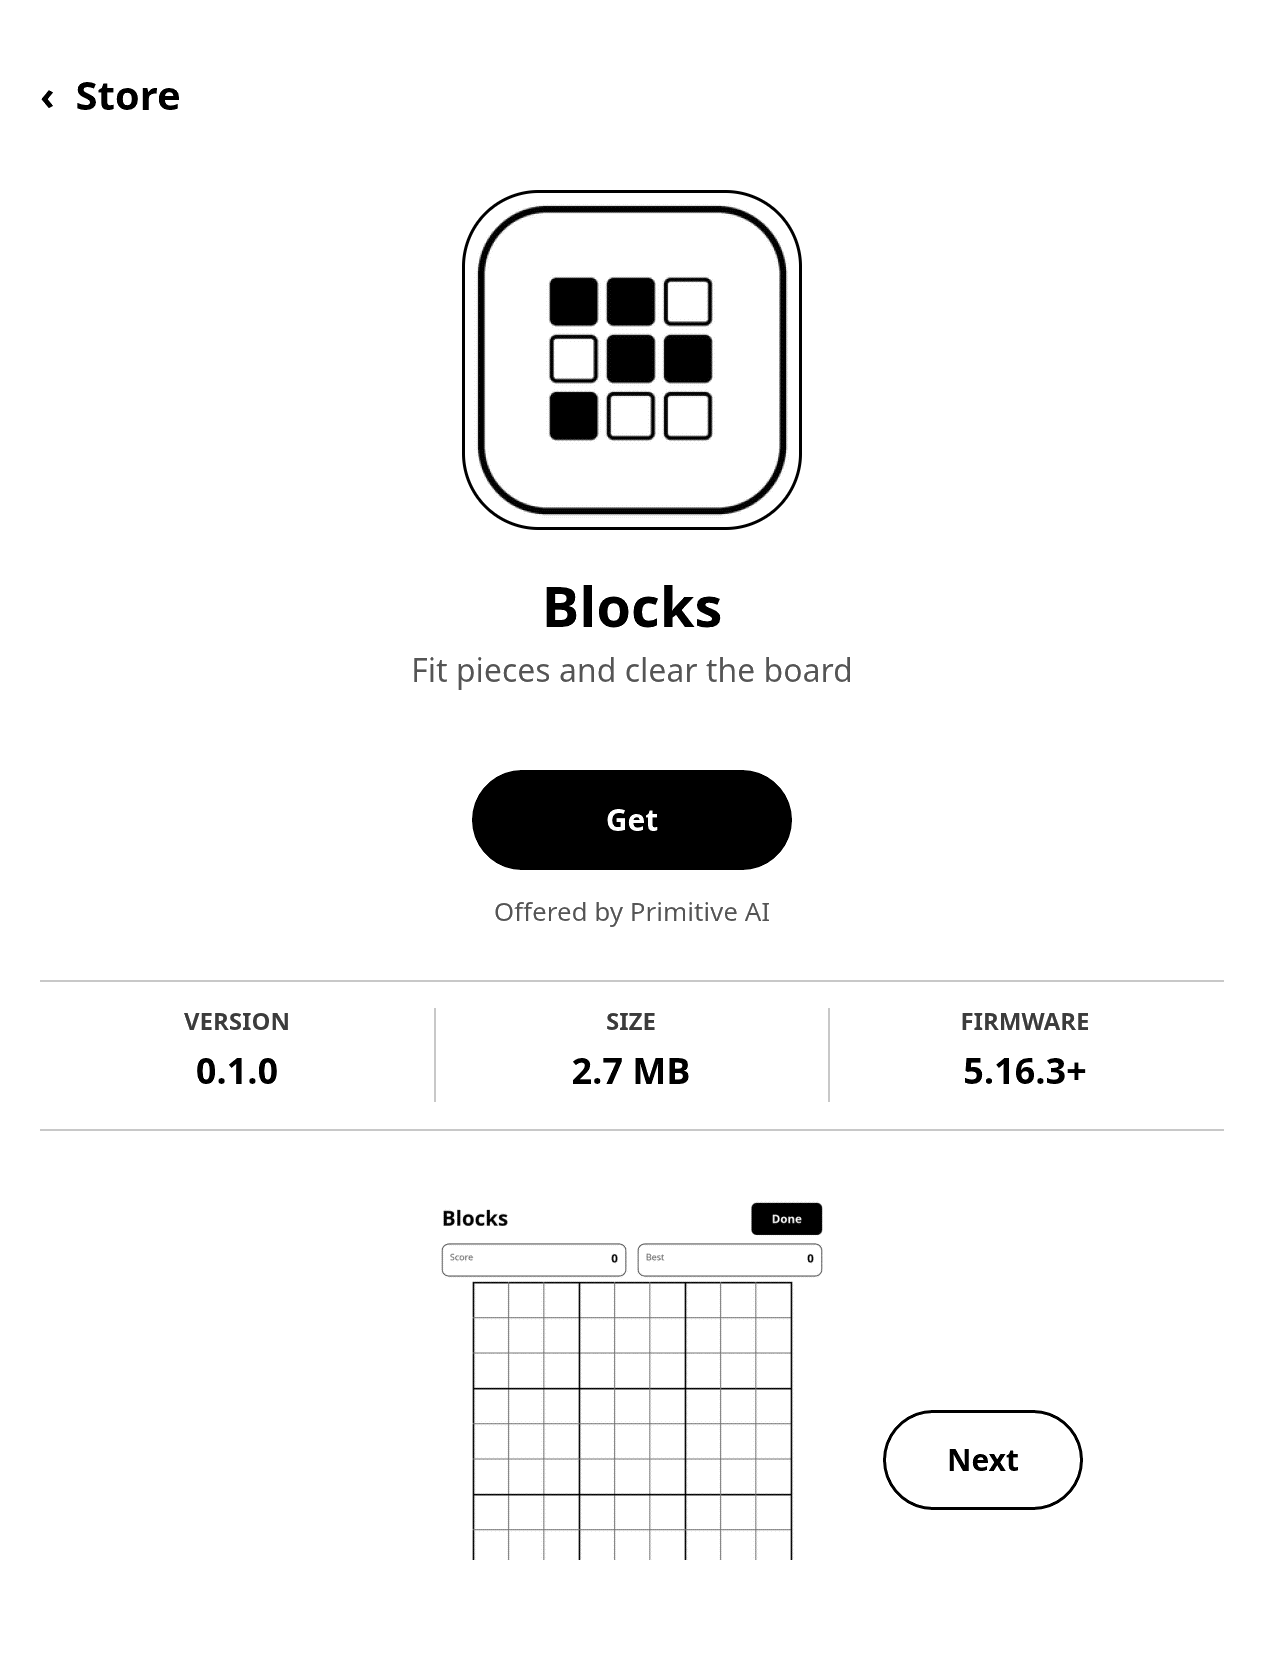
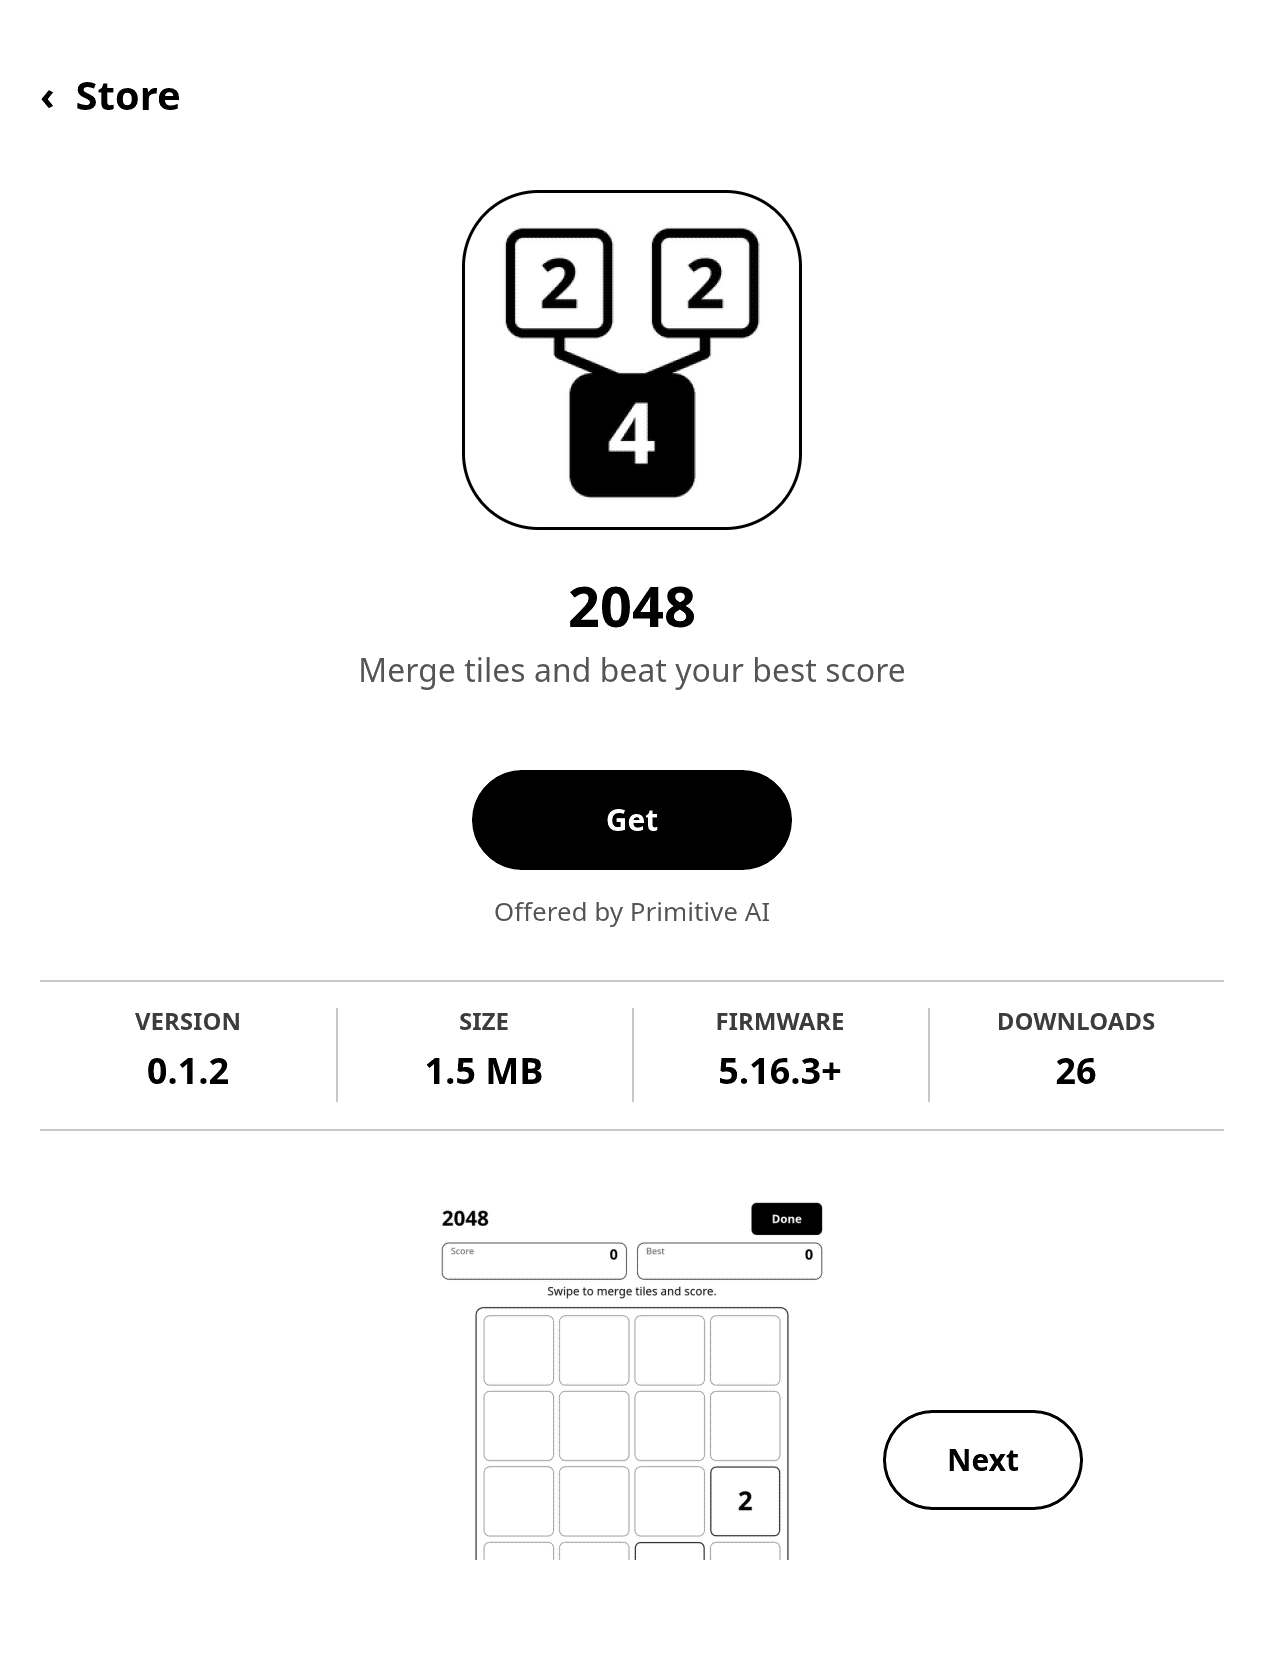
Add scrolling and per-app download totals in Store 0.1.6

diff --git a/crates/store-app/src/artwork.rs b/crates/store-app/src/artwork.rs
@@ -1,4 +1,4 @@
-//! Prepare the current page's artwork off the event loop, then warm the adjacent pages.
+//! Prepare visible artwork off the event loop, then preload icons near the viewport.
 
 use std::{
     collections::HashSet,
@@ -72,27 +72,14 @@ impl PageArtwork {
         page
     }
 
-    fn rows<'a>(ui: &'a Ui, indices: impl Iterator<Item = usize> + 'a) -> impl Iterator<Item = Asset> + 'a {
-        indices.filter_map(move |index| ui.store.get(index))
-            .map(|entry| Asset::Icon(entry.id.clone(), STORE_ROW_ICON))
-    }
-
     fn for_list(ui: &Ui) -> Self {
-        if ui.store_tab == StoreTab::Today {
-            let mut visible: Vec<_> = ui.store_featured().into_iter()
-                .map(|index| Asset::Icon(ui.store[index].id.clone(), STORE_FEATURE_ICON)).collect();
-            if ui.store_today_collection_page().is_empty() {
-                visible.extend(Self::rows(ui, ui.store_today_rows().into_iter()));
-            }
-            let nearby = Self::rows(ui, (0..ui.store.len()).take(ui.layout.store_toolbar_rows())).collect();
-            return Self { visible, nearby };
-        }
-
-        let indices = ui.store_list_indices();
-        let per_page = ui.store_rows_per_page();
-        let page = |number: usize| Self::rows(ui, indices.iter().copied().skip(number * per_page).take(per_page));
-        let visible = page(ui.store_page).collect();
-        let nearby = page(ui.store_page + 1).chain(ui.store_page.checked_sub(1).into_iter().flat_map(page)).collect();
+        let featured = if ui.store_tab == StoreTab::Today { ui.store_featured() } else { None };
+        let icon = |index: usize| {
+            let size = if Some(index) == featured { STORE_FEATURE_ICON } else { STORE_ROW_ICON };
+            Asset::Icon(ui.store[index].id.clone(), size)
+        };
+        let visible = ui.store_visible_entries().into_iter().map(|(_, index)| icon(index)).collect();
+        let nearby = ui.store_nearby_entries().into_iter().map(icon).collect();
         Self { visible, nearby }
     }
 
@@ -195,7 +182,7 @@ impl Artwork {
         }
         let next = PageArtwork::for_ui(ui);
         if self.page != next {
-            // Let the panel settle before preparing off-screen art, especially during rapid paging.
+            // Let the panel settle before preparing off-screen art, especially during rapid scrolling.
             self.preload_after = Instant::now() + Duration::from_millis(450);
             self.page = next;
         }
@@ -244,7 +231,7 @@ impl Artwork {
         }
         let mut assets: Vec<_> = self.page.visible.iter().filter(|asset| !self.attempted.contains(*asset)).cloned().collect();
         if assets.is_empty() && Instant::now() >= self.preload_after {
-            // A single speculative decode never holds up more than one tile if the user changes pages.
+            // Keep speculative work to one tile so visible icons take priority after a scroll.
             assets.extend(self.page.nearby.iter().filter(|asset| !self.attempted.contains(*asset)).take(1).cloned());
         }
         if !assets.is_empty() {
@@ -274,7 +261,7 @@ mod tests {
     }
 
     #[test]
-    fn today_warms_only_the_first_apps_page() {
+    fn today_preloads_nearby_app_icons() {
         let ui = catalog();
         let page = PageArtwork::for_ui(&ui);
         assert_eq!(page.visible, [
@@ -282,23 +269,26 @@ mod tests {
             Asset::Icon("app-01".into(), STORE_ROW_ICON),
             Asset::Icon("app-02".into(), STORE_ROW_ICON),
         ]);
-        assert_eq!(page.all().count(), ui.layout.store_toolbar_rows() + 1);
+        assert!(page.nearby.contains(&Asset::Icon("app-03".into(), STORE_ROW_ICON)));
+        assert!(page.all().count() < 30);
         assert!(page.all().all(|asset| matches!(asset, Asset::Icon(..))));
     }
 
     #[test]
-    fn list_artwork_is_limited_to_three_pages_and_respects_search() {
+    fn list_artwork_is_bounded_near_the_scroll_position_and_respects_search() {
         let mut ui = catalog();
         ui.store_tab = StoreTab::Apps;
-        ui.store_page = 3;
-        let per_page = ui.store_rows_per_page();
+        let row_height = ui.layout.store_list_row(0).h;
+        ui.store_list_scroll = 20 * row_height + 30;
         let page = PageArtwork::for_ui(&ui);
-        assert_eq!(page.visible[0], Asset::Icon(format!("app-{:02}", per_page * 3), STORE_ROW_ICON));
-        assert_eq!(page.visible.len(), per_page);
-        assert_eq!(page.nearby.len(), 2 * per_page);
+        assert_eq!(page.visible[0], Asset::Icon("app-20".into(), STORE_ROW_ICON));
+        assert!(page.nearby.contains(&Asset::Icon("app-19".into(), STORE_ROW_ICON)));
+        assert!(page.nearby.contains(&Asset::Icon("app-31".into(), STORE_ROW_ICON)));
+        assert!(page.all().count() < 30);
+        assert!(page.nearby.iter().all(|asset| !page.visible.contains(asset)));
 
         ui.store_tab = StoreTab::Search;
-        ui.store_page = 0;
+        ui.store_list_scroll = 0;
         ui.store_query.text = "needle".chars().collect();
         ui.store[90].subtitle = "a needle".into();
         ui.store[91].subtitle = "another needle".into();

diff --git a/crates/store-app/src/store.rs b/crates/store-app/src/store.rs
@@ -392,10 +392,14 @@ fn load_entries(dir: &Path, catalog: Option<&CachedCatalog>) -> Vec<StoreEntry> 
             let Some(id) = path.file_stem().and_then(|name| name.to_str()).filter(|id| valid_app_id(id)) else { continue };
             let Ok(listing) = catalog.listing(id) else { continue };
             let installed_app = installed.apps.remove(&listing.id);
-            entries.push(match &device {
+            let mut entry = match &device {
                 Some(device) => StoreEntry::for_device(&listing, installed_app.as_ref(), device),
                 None => StoreEntry::from_listing(&listing, installed_app.as_ref()),
-            });
+            };
+            if entry.kind != kl_core::store::Kind::Link {
+                entry.downloads = catalog.download_count(id);
+            }
+            entries.push(entry);
         }
     }
     entries.extend(installed.apps.values().map(StoreEntry::from_installed));
@@ -498,6 +502,32 @@ pub(crate) mod tests {
         let preserved = load_store(&fixture.launcher);
         assert_eq!(preserved[0].action_label(), "Installed");
         assert!(preserved[0].can_remove());
+    }
+
+    #[test]
+    fn catalog_view_shows_cached_download_totals_and_distinguishes_zero_from_unknown() {
+        let fixture = Fixture::new();
+        let app = listing("https://example.com/app.zip", "", 100);
+        fixture.write_listing(&app);
+        let index_path = fixture.launcher.join("store/cache/index.json");
+        let mut index = serde_json::json!({
+            "schema": 1, "generated_at": "2026-11-20T10:00:00Z", "apps": [{
+                "id": app.id, "name": app.name, "subtitle": app.subtitle, "categories": app.categories,
+                "icon": "icon.png", "source": app.source, "latest_version": "1.0.0",
+                "arch": ["armhf"], "updated_at": "2026-11-20"
+            }],
+            "downloads": {"as_of": "2026-11-20T10:00:00Z", "by_app": {(ID): 0}}
+        });
+        fs::write(&index_path, serde_json::to_vec(&index).unwrap()).unwrap();
+        let (apps, _, _) = load_catalog_view(&fixture.launcher);
+        assert_eq!(apps[0].downloads, Some(0));
+
+        index["downloads"]["by_app"][ID] = 45.into();
+        fs::write(&index_path, serde_json::to_vec(&index).unwrap()).unwrap();
+        assert_eq!(load_store(&fixture.launcher)[0].downloads, Some(45));
+
+        fs::remove_file(index_path).unwrap();
+        assert_eq!(load_store(&fixture.launcher)[0].downloads, None);
     }
 
     #[test]

diff --git a/crates/store-app/src/main.rs b/crates/store-app/src/main.rs
@@ -322,7 +322,9 @@ fn main() {
         // Done (back to the home screen) ends the store: the launcher takes the screen again.
         if ui.screen == Screen::Home {
             if !request_exit(&mut ui, &storage, refresh.as_ref()) {
+                ui.clamp_store_list_scroll();
                 display.show(renderer.draw(&ui, &status), &settings, false);
+                artwork.update_page(&ui, &mut renderer);
                 continue;
             }
             log("store: done");
@@ -331,6 +333,7 @@ fn main() {
         match action {
             Action::Redraw { .. } if ui.screen == Screen::Sleep => {}
             Action::Redraw { full } => {
+                ui.clamp_store_list_scroll();
                 display.show(renderer.draw(&ui, &status), &settings, full);
                 artwork.update_page(&ui, &mut renderer);
             }
@@ -383,6 +386,7 @@ fn main() {
                     refresh = Some(started);
                 }
                 let full = closed_modal && ui.store_sheet.is_none() && !ui.store_batch_confirm;
+                ui.clamp_store_list_scroll();
                 display.show(renderer.draw(&ui, &status), &settings, full);
                 artwork.update_page(&ui, &mut renderer);
             }
@@ -544,7 +548,7 @@ mod tests {
         open_start_page(&mut ui, Some("installed"));
         assert_eq!(ui.screen, Screen::Store);
         assert_eq!(ui.store_tab, kl_core::store::StoreTab::Updates);
-        assert_eq!(ui.store_page, 0);
+        assert_eq!(ui.store_list_scroll, 0);
         let indices = ui.store_list_indices();
         assert_eq!(indices.len(), 1);
         assert_eq!(ui.store[indices[0]].id, listing.id);

diff --git a/README.md b/README.md
@@ -11,29 +11,31 @@
 ---
 
 Store brings Today, Apps, Updates, and Search to the Kindle in a grayscale interface. Open an app page to
-see the version, download size, firmware requirements, screenshots, and what it changes before you install.
+see its download count, version, download size, firmware requirements, screenshots, and what it changes before you install.
 The Store is a standalone Rust application that uses Primitive Launcher's fonts and settings.
 
 ## Screenshots
 
 <table>
   <tr>
-    <td align="center"><img src="docs/images/store-today.png" alt="Today tab with a featured app and two collections" width="260"><br><sub>Featured apps and collections</sub></td>
+    <td align="center"><img src="docs/images/store-today.png" alt="Today tab with a featured app and collections" width="260"><br><sub>Featured apps and collections</sub></td>
     <td align="center"><img src="docs/images/store-apps.png" alt="Apps tab with categories and Get buttons" width="260"><br><sub>Browse the catalogue</sub></td>
     <td align="center"><img src="docs/images/store-search-keyboard.png" alt="Search for Browser with the on-screen keyboard" width="260"><br><sub>Find an app by name</sub></td>
   </tr>
   <tr>
-    <td align="center"><img src="docs/images/store-app.png" alt="Blocks app page showing version, size, and firmware" width="260"><br><sub>Read an app's details</sub></td>
+    <td align="center"><img src="docs/images/store-app.png" alt="2048 app page with its Downloads count and other app details" width="260"><br><sub>Read an app's details</sub></td>
     <td align="center"><img src="docs/images/store-install-sheet.png" alt="Install confirmation showing what Blocks changes" width="260"><br><sub>Review changes before installing</sub></td>
     <td align="center"><img src="docs/images/store-updates.png" alt="Updates tab with one update ready and an Update all button" width="260"><br><sub>See what can be updated</sub></td>
   </tr>
 </table>
 
-<sub>Captured from the macOS desktop preview with a private review catalogue and sample install states.</sub>
+<sub>Captured from the macOS desktop preview with local catalogue data and sample install states.</sub>
 
 ## Highlights
 
 - **Browse offline.** The Store saves the catalogue so you can browse it after a refresh without Wi-Fi.
+- **Scroll through apps.** Swipe up or down to browse long lists. The tabs stay within reach, and Back from an
+  app page returns to the same spot. [Scrolled Apps tab](docs/images/store-apps-scrolled.png)
 - **See refresh progress.** Store shows how many listings it has checked. Tap **Done** to stop a refresh and
   return to Launcher.
 - **Check every download.** The Store verifies the archive size and SHA-256. An optional trusted key enables Ed25519
@@ -53,10 +55,12 @@ The Store saves its catalogue and install records in `/mnt/us/launcher/store/`.
 
 ## App download counts
 
-Open the latest successful **App download counts** run and select **Summary** to see per-app totals. The
-`app-download-counts` artifact includes CSV, JSON, and Markdown. The report updates daily from GitHub release metadata.
-Totals include package downloads through Store, direct downloads, updates, repeats, and automated checks.
-[App download counts](https://github.com/DoanNguyenTrong/kindle-primitive-catalog/actions/workflows/download-counts.yml)
+Open an app page to see **Downloads** in its information strip. Store saves the catalogue's latest available total
+on refresh and can show it offline. **Unavailable** means the catalogue hasn't supplied a total for that app.
+
+The daily catalog workflow collects per-app totals from GitHub release metadata. Totals include package downloads
+through Store, direct downloads, updates, repeats, and automated checks.
+[Catalog workflow and reports](https://github.com/DoanNguyenTrong/kindle-primitive-catalog/actions/workflows/catalog.yml)
 
 ## Status
 
@@ -74,7 +78,7 @@ cargo test --locked --workspace
 cargo zigbuild --locked --release -p store-app --target armv7-unknown-linux-musleabihf
 sh scripts/stage.sh armhf
 python3 ../doannt-kindle-build/scripts/package.py --id primitive-store --dir store \
-  --version 0.1.3 --arch armhf --stage build/stage --license LICENSE \
+  --version 0.1.6 --arch armhf --firmware-min 5.16.3 --stage build/stage --license LICENSE \
   --docs-license LICENSE-DOCS --install INSTALL.md --out dist
 ```
 

diff --git a/CHANGELOG.md b/CHANGELOG.md
@@ -1,5 +1,11 @@
 # Changelog
 
+## 0.1.6
+
+- Swipe vertically through Store lists. The fixed tab bar leaves more room for app rows.
+- Restore the list position when returning from a product page. Preload icons around the visible rows.
+- Show GitHub package download totals on app pages from the saved catalog.
+
 ## 0.1.5
 
 - Open the Updates tab and installed-app list from Launcher Settings.
